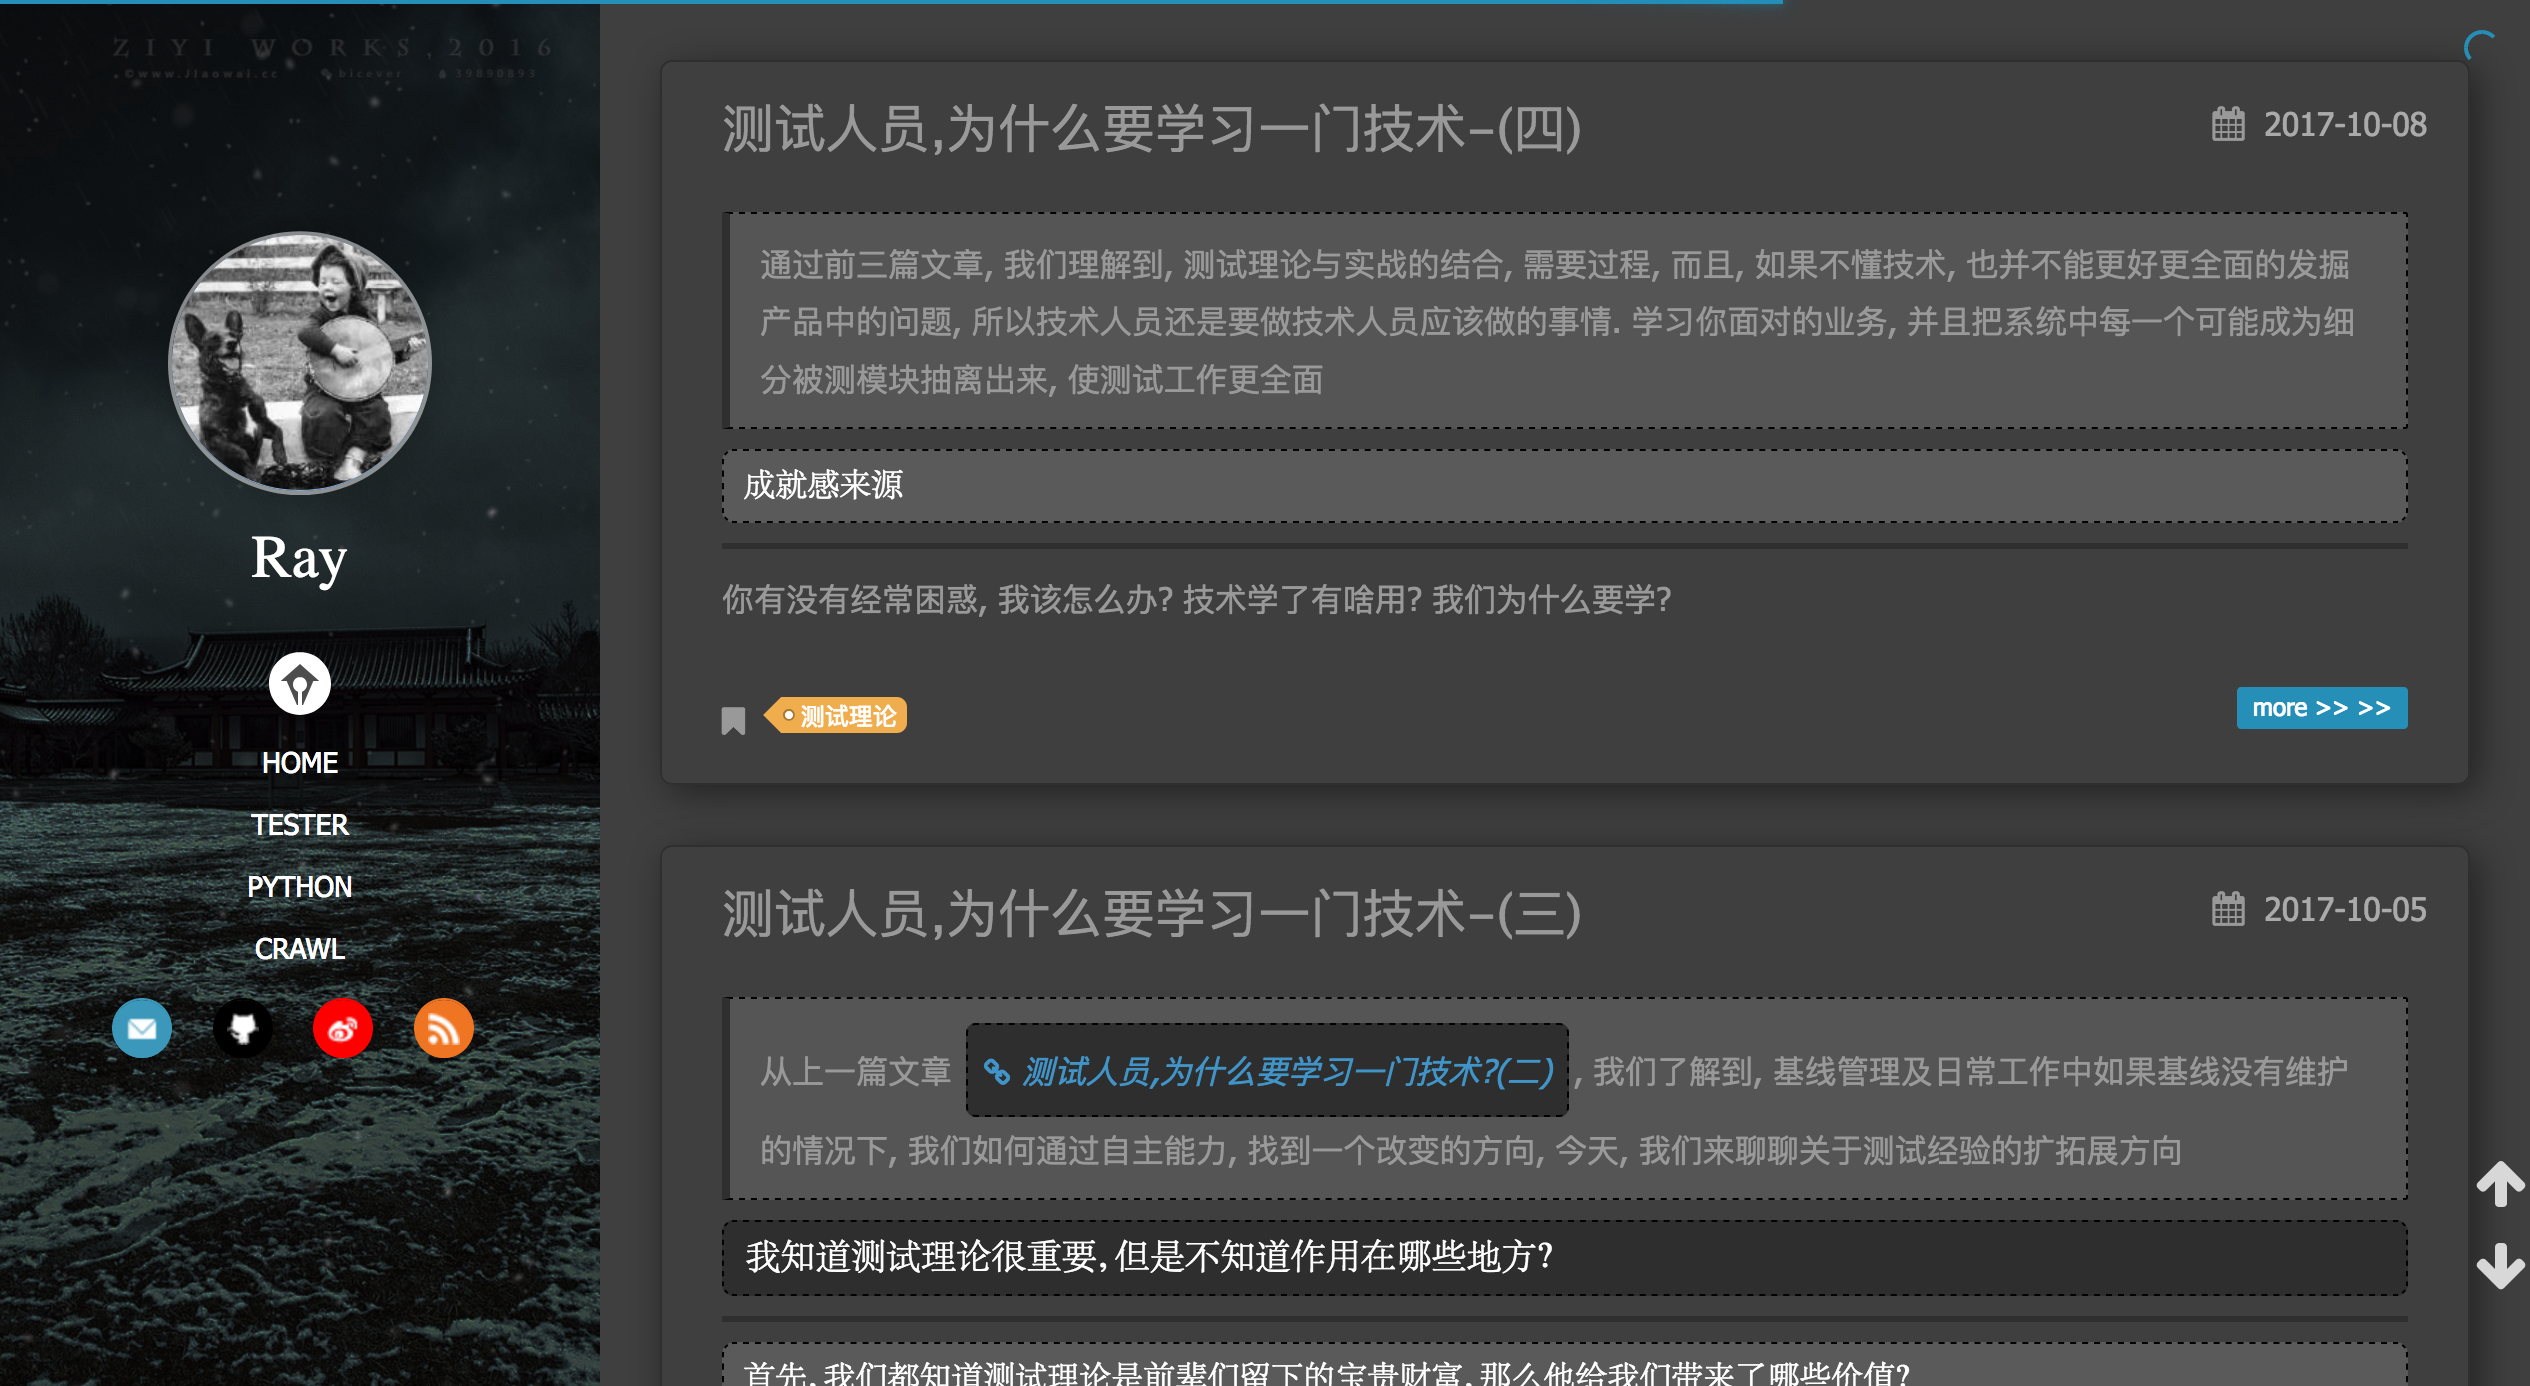
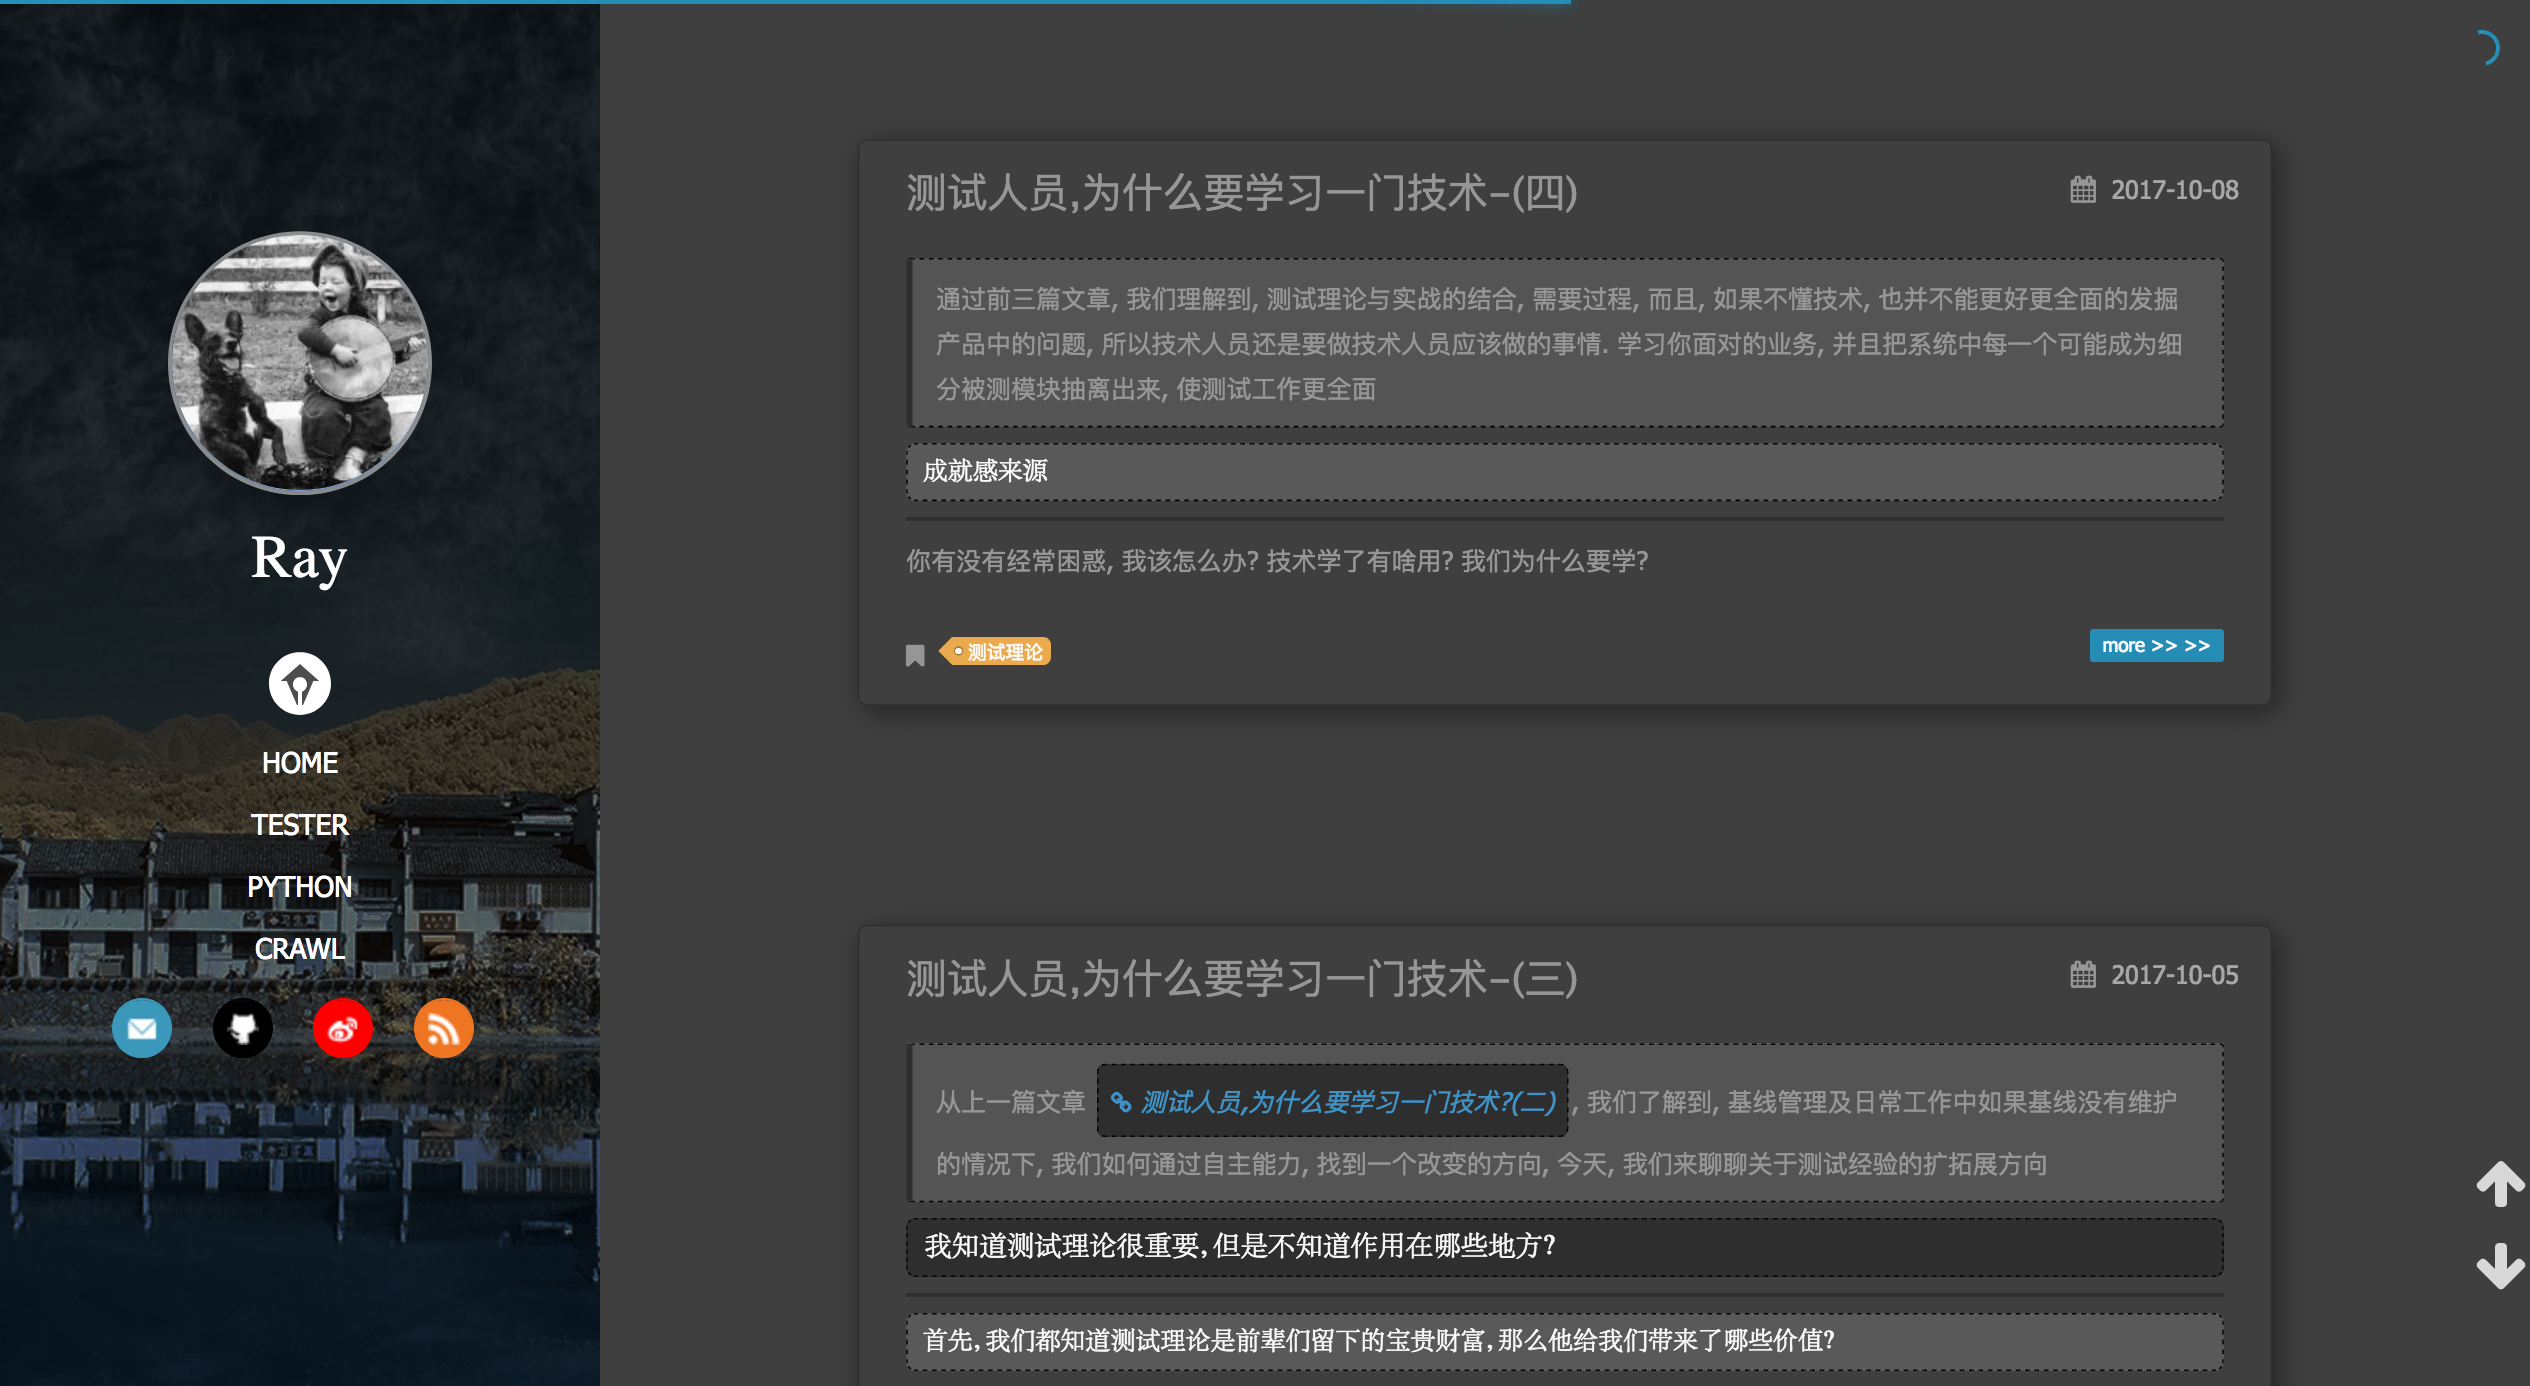
# 将MakeResultjson class中的错误用法__makeresult__ 更换为__repr__, 并处理其相关的返回结果确保数据展示正确 # 更新sample/img中的图片文件

diff --git a/BeautifulReport.py b/BeautifulReport.py
@@ -89,7 +89,7 @@ class MakeResultJson:
         """
         self[key] = value
     
-    def __makeresult__(self) -> dict:
+    def __repr__(self) -> str:
         """
             返回对象的html结构体
         :rtype: dict
@@ -105,7 +105,7 @@ class MakeResultJson:
         )
         for key, data in zip(keys, self.datas):
             self.result_schema.setdefault(key, data)
-        return self.result_schema
+        return json.dumps(self.result_schema)
 
 
 class ReportTestResult(unittest.TestResult):
@@ -196,7 +196,7 @@ class ReportTestResult(unittest.TestResult):
         """
         FIELDS['testPass'] = self.success_counter
         for item in self.result_list:
-            item = MakeResultJson(item).__makeresult__()
+            item = json.loads(str(MakeResultJson(item)))
             FIELDS.get('testResult').append(item)
         FIELDS['testAll'] = len(self.result_list)
         FIELDS['testName'] = title if title else self.default_report_name
